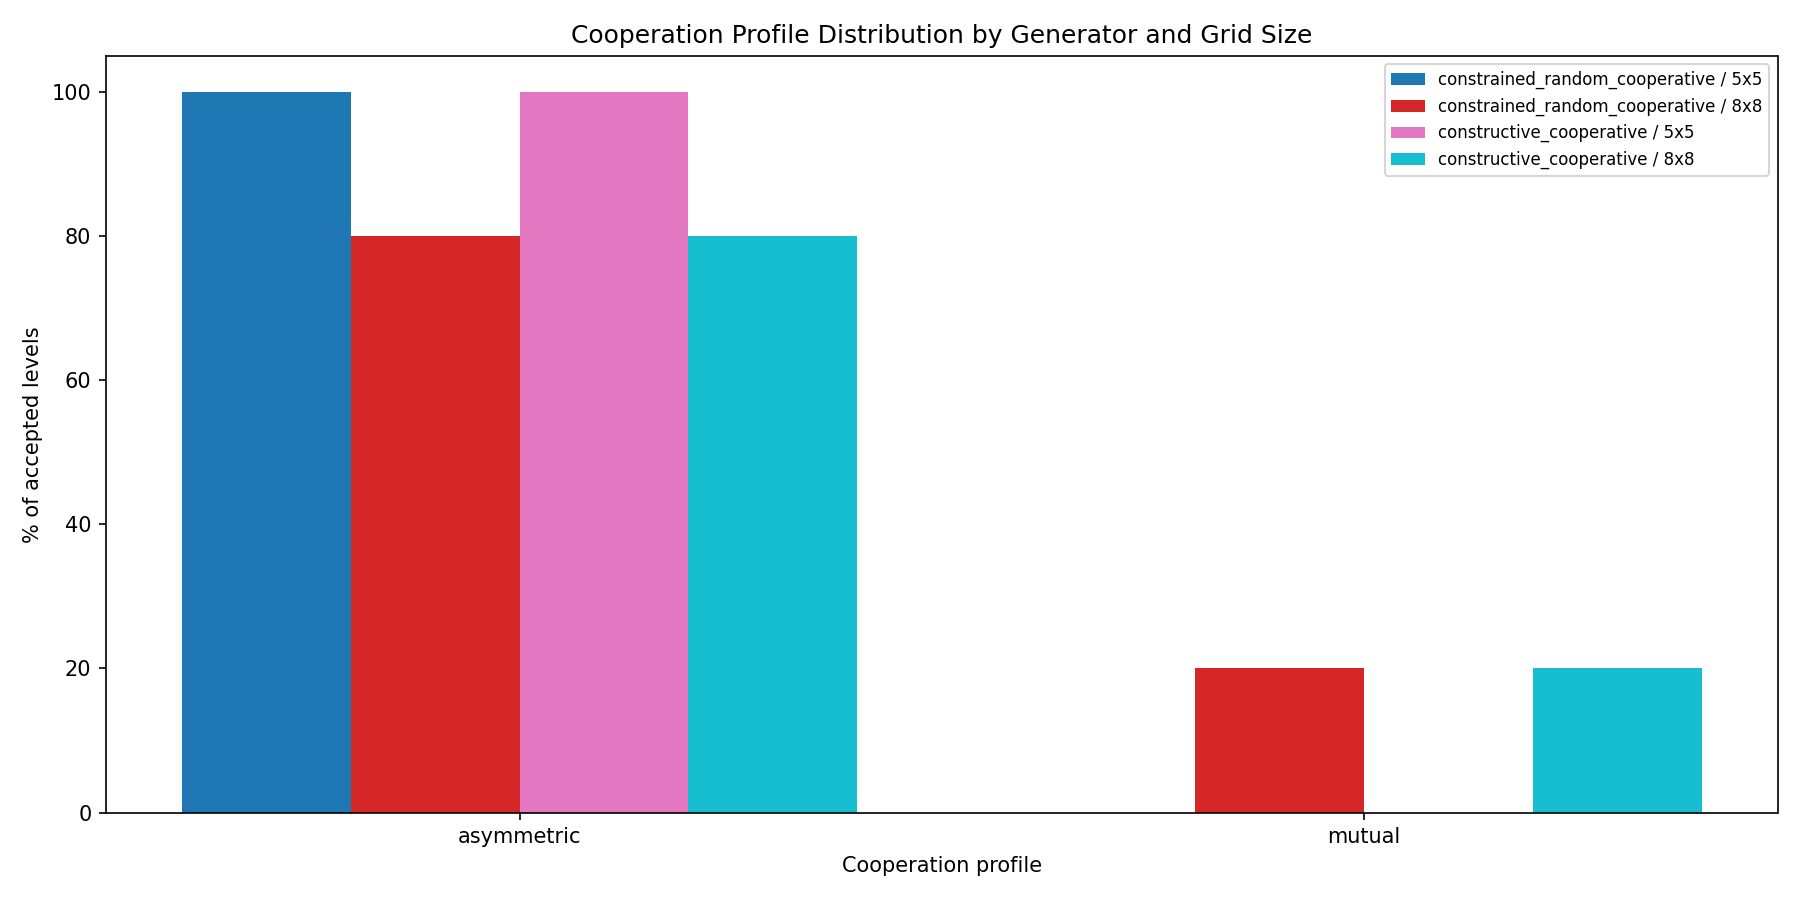
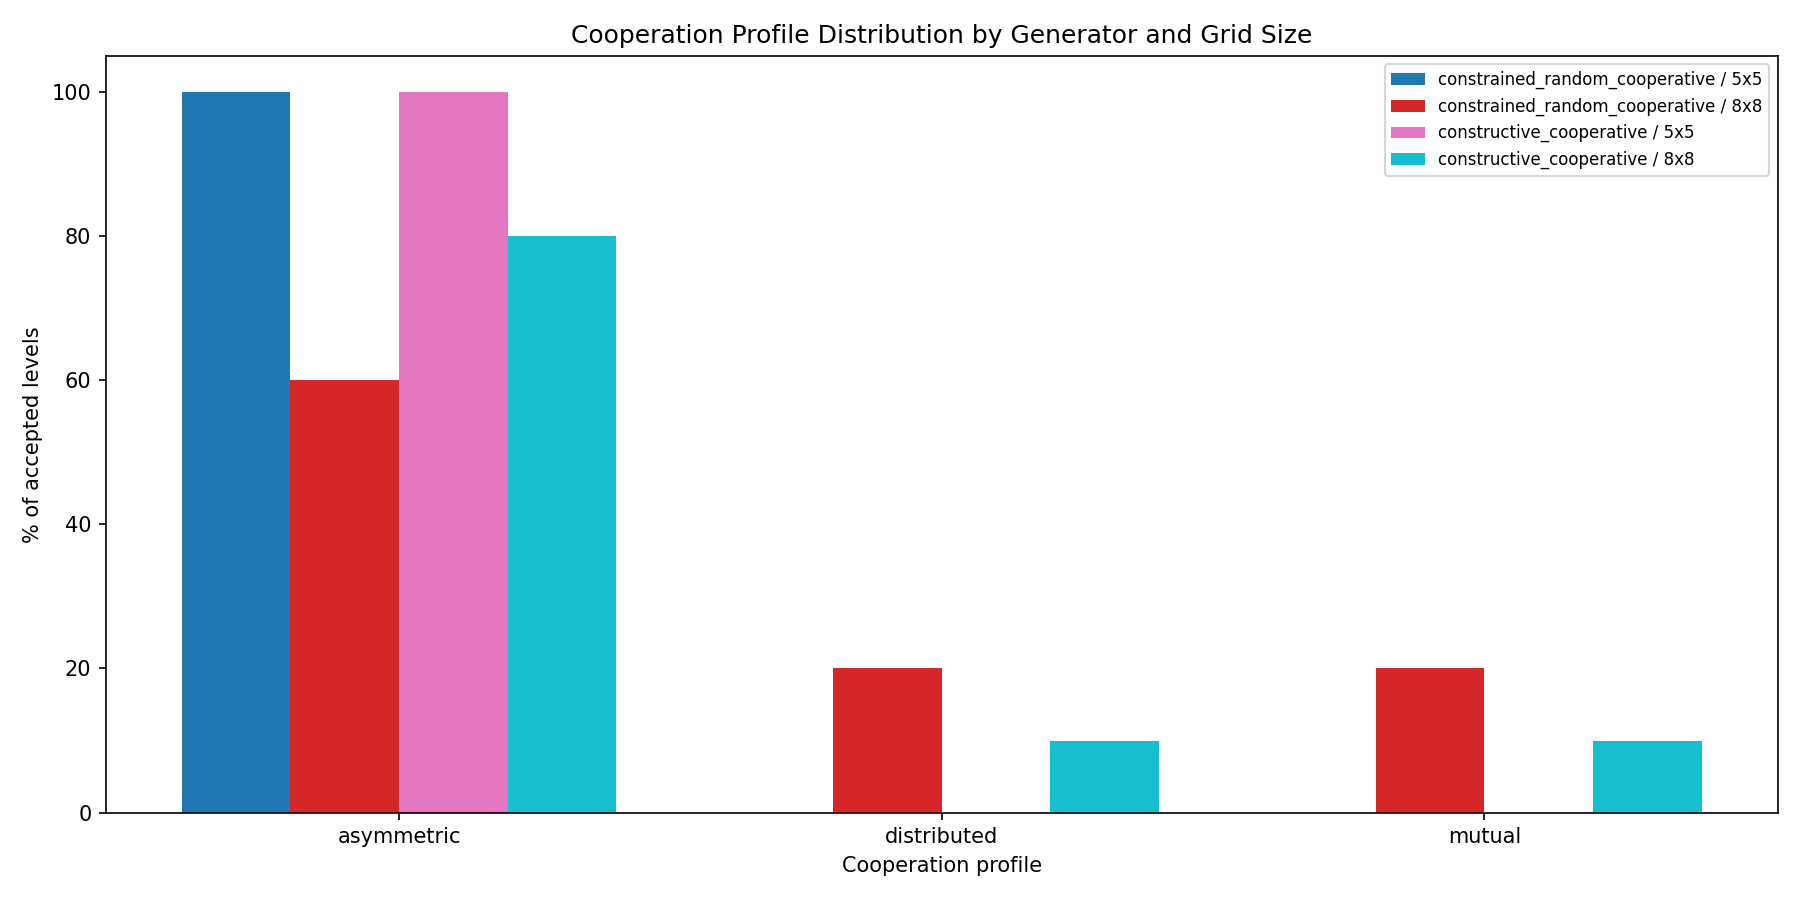
📊 Add rejection benchmark results and update thesis interpretation
- Run rejection benchmark with seed=None, trial-based measurement
- Fix survivorship bias: failed trials counted separately in JSON
- Update experiments.typ protocol and interpretation with real numbers
- Refresh profile benchmark results (re-run)

Changed region(s): [[0.1556, 0.0933, 0.56, 0.9333], [0.56, 0.7156, 0.9644, 0.9333]]

diff --git a/src/scripts/run_rejection_benchmark.py b/src/scripts/run_rejection_benchmark.py
@@ -69,7 +69,7 @@ def _make_generator(cls, rows, cols, agents, lasers):
         lasers=lasers,
         t_max=t_max,
         max_attempts=1,
-        seed=42,
+        seed=None,
     )
     try:
         return cls(**common)
@@ -153,12 +153,15 @@ def run():
 
             successful = len(attempts_per_level)
             mean_attempts = float(np.mean(attempts_per_level)) if attempts_per_level else None
-            rejection_rate = ((mean_attempts - 1) / mean_attempts) if mean_attempts else None
+            rejection_rate = ((mean_attempts - 1) / mean_attempts) if mean_attempts is not None else None
 
-            print(
-                f"    done: {successful}/{MAX_TRIALS} trials, "
-                f"mean attempts={mean_attempts:.1f}" if mean_attempts else f"    done: {successful}/{MAX_TRIALS} trials"
-            )
+            if mean_attempts is not None:
+                print(
+                    f"    done: {successful}/{trials} trials ({failed_trials} failed), "
+                    f"mean attempts={mean_attempts:.1f}, rejection rate={100*rejection_rate:.1f}%"
+                )
+            else:
+                print(f"    done: {successful}/{trials} trials ({failed_trials} failed) — no data")
 
             results[gen_name][size_key] = {
                 "successful_trials": successful,
@@ -167,6 +170,7 @@ def run():
                 "std_attempts_per_level": float(np.std(attempts_per_level)) if attempts_per_level else None,
                 "mean_time_per_level": float(np.mean(times_per_level)) if times_per_level else None,
                 "rejection_rate": rejection_rate,
+                "note": f"{failed_trials} trials exhausted budget and are excluded from mean_attempts" if failed_trials else None,
             }
 
     json_path = OUTPUT_DIR / "benchmark_results.json"
@@ -174,7 +178,10 @@ def run():
         json.dump(results, f, indent=2)
     print(f"\nResults saved to {json_path}")
 
-    _make_plots(results)
+    try:
+        _make_plots(results)
+    except Exception as e:
+        print(f"Warning: plot generation failed: {e}")
 
 
 # ---------------------------------------------------------------------------
